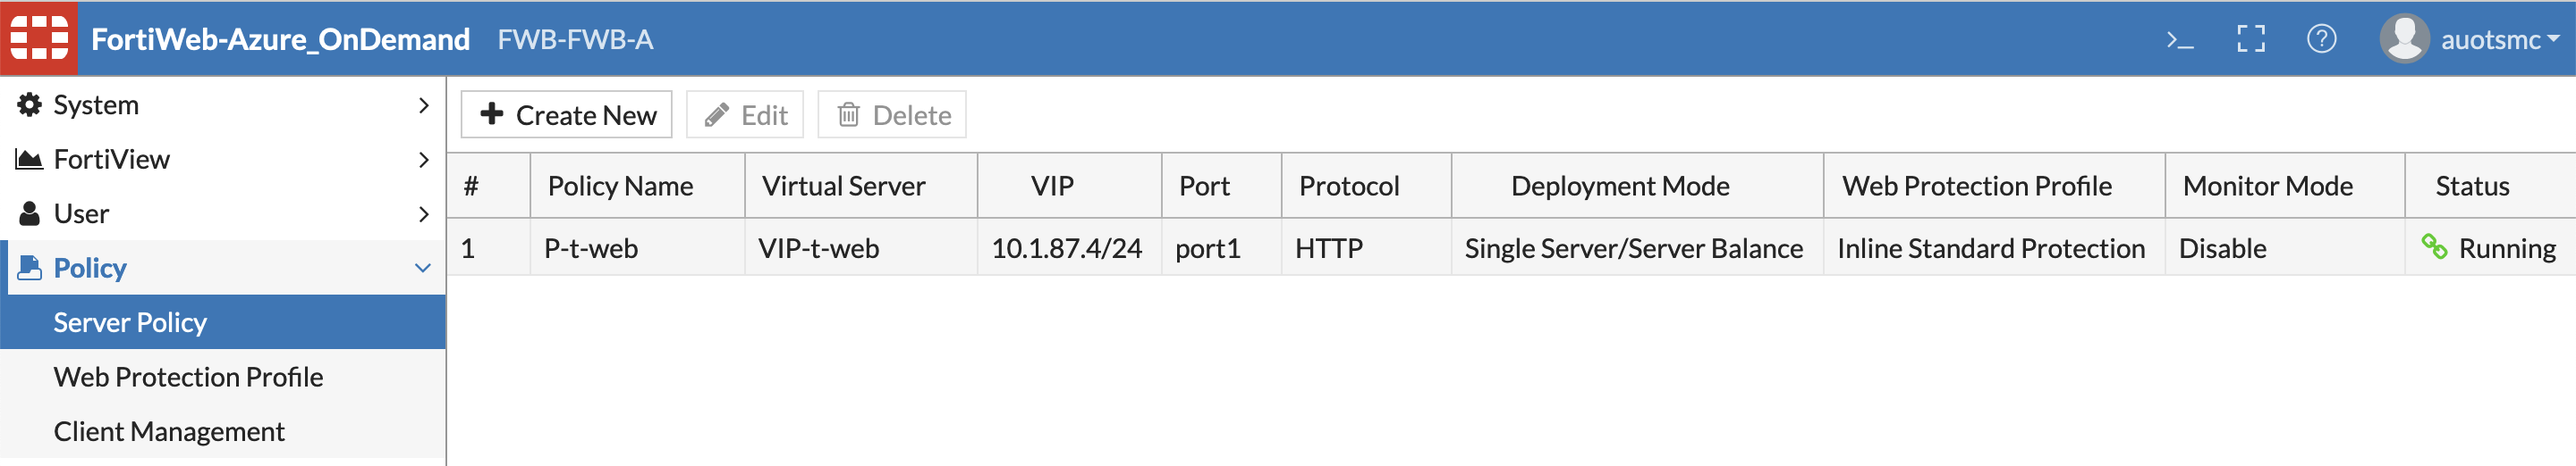
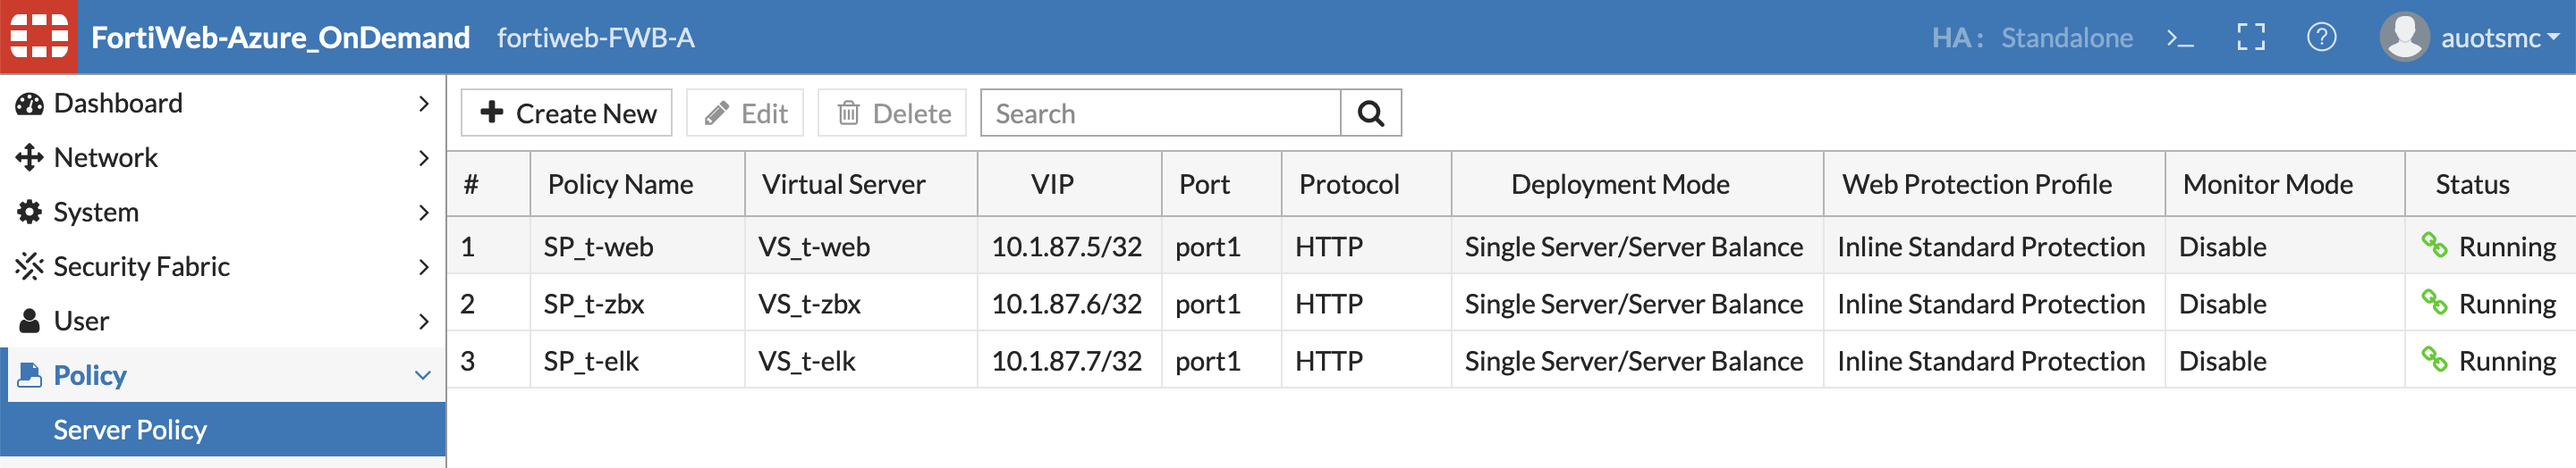
update

diff --git a/waf/fortiweb-implement.md b/waf/fortiweb-implement.md
@@ -19,6 +19,7 @@
         - 0.0.0.0/0 → Firewall Private IP (Gateway)
 - Azure (Rule)
     - NSG Inbound: Internet → Any
+
 # Firewall before WAF (VM Simulation)
 - `wget https://raw.githubusercontent.com/sajitsasi/az-ip-fwd/main/ip_fwd.sh`
 - `~/ip_fwd.sh -i eth0 -f 80 -a fortiweb -b 80`
@@ -34,3 +35,17 @@
         - IP → Web IP
 - Azure
     - NSG Inbound: Internet → Any (VNet 也可以)
+
+# FortiWeb Config
+- Interface
+    <br><img src="../img/fortiweb/deploy-web-1-interfce.png">
+- Virtual IP
+    <br><img src="../img/fortiweb/deploy-web-2-virtual-ip.png">
+- Virtual Server
+    <br><img src="../img/fortiweb/deploy-web-3-virtual-server-1.png">
+    <br><img src="../img/fortiweb/deploy-web-3-virtual-server-2.png">
+- Server Pool
+    <br><img src="../img/fortiweb/deploy-web-4-server-pool.png">
+    <br><img src="../img/fortiweb/deploy-web-4-server-pool-detail.png" board="1">
+- Server Policy
+    <br><img src="../img/fortiweb/deploy-web-5-server-policy.png">
